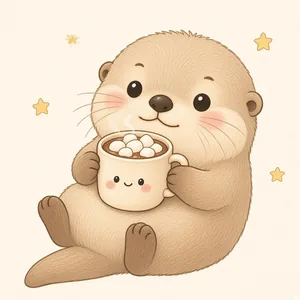
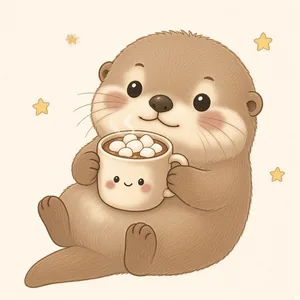
Art round 3: otter fur graded to milk-brown (portrait + scene), red panda scene colour-matched to new portrait (panda-only mask); remove Mother's Day (intl + TH) from festival calendar, May left empty pending World Bee Day decision

Changed region(s): [[0.09, 0.09, 0.87, 0.93], [0.33, 0.57, 0.39, 0.63], [0.51, 0.45, 0.54, 0.48]]

diff --git a/festivals.js b/festivals.js
@@ -32,9 +32,6 @@ function oktoberfest(y){
   return [addDays(sun, -15), sun.getDate() < 3 ? D(y, 10, 3) : sun];
 }
 
-/* Mother's Day mode is an OPEN DECISION for Nadda: 'intl' (2nd Sunday of May), 'th' (12 Aug), 'both' */
-const CONFIG = { mothersDay:'intl' };
-
 /* Each festival: k, th (Thai name), en, range(y) -> [start, end] (inclusive, local dates) or null.
    menu: limited-time MENU keys tied to this festival (existing art only). decor: [] (Phase 2 art). */
 const FESTIVALS = [
@@ -42,8 +39,7 @@ const FESTIVALS = [
   { k:'valentine', th:'วาเลนไทน์', en:"Valentine's Day", range:y => [D(y, 2, 10), D(y, 2, 14)] },
   { k:'easter', th:'อีสเตอร์', en:'Easter', range:y => { const d = easter(y); return [addDays(d, -7), addDays(d, 1)]; } },
   { k:'songkran', th:'สงกรานต์', en:'Songkran', range:y => [D(y, 4, 11), D(y, 4, 15)] },
-  { k:'mothersDayIntl', th:'วันแม่ (สากล)', en:"Mother's Day", when:() => CONFIG.mothersDay !== 'th', range:y => { const d = nthWeekday(y, 5, 0, 2); return [addDays(d, -5), d]; } },
-  { k:'mothersDayTH', th:'วันแม่ (ไทย)', en:"Mother's Day (TH)", when:() => CONFIG.mothersDay !== 'intl', range:y => [D(y, 8, 7), D(y, 8, 12)] },
+  /* May: intentionally empty (Mother's Day removed by Nadda, Oct 2026). Possible World Bee Day (20 May) is an open decision — see HANDOFF §9. */
   { k:'pride', th:'Pride', en:'Pride Month', range:y => [D(y, 6, 1), D(y, 6, 30)] },
   { k:'tanabata', th:'ทานาบาตะ', en:'Tanabata', range:y => [D(y, 7, 1), D(y, 7, 7)] },
   { k:'midAutumn', th:'ไหว้พระจันทร์', en:'Mid-Autumn', range:y => { const d = lunar('midAutumn', y); return d && [addDays(d, -5), addDays(d, 1)]; } },
@@ -95,5 +91,5 @@ function upcoming(date, days=60){
 const festivalMenu = date => [...new Set(active(date).flatMap(f => f.menu))];
 const hasLunarData = y => Object.values(LUNAR).every(t => t[y]);
 
-window.Festivals = { FESTIVALS, LUNAR, CONFIG, easter, oktoberfest, hemisphere, season, active, upcoming, festivalMenu, hasLunarData };
+window.Festivals = { FESTIVALS, LUNAR, easter, oktoberfest, hemisphere, season, active, upcoming, festivalMenu, hasLunarData };
 })();

diff --git a/HANDOFF.md b/HANDOFF.md
@@ -94,7 +94,8 @@ Pure functions with no DOM or storage. Easy to port to Swift, or run as-is in a 
 - `Festivals.upcoming(date, days)`, `Festivals.festivalMenu(date)`: limited-time MENU keys. `pumpkin` is tied to Halloween and `xmascocoa` to Christmas, which replaced the old month-number check.
 - `Festivals.season(date, hemi)` returns `{season, themeMonth, hemi, flags}`. Southern hemisphere uses the theme from 6 months away. Flags: `springPicnic` (April N / October S), `autumnToWinter` (November theme), `firstSnow` (north: from 20 Nov; south: 1–14 June, per the plan's "around June", unconfirmed → also sets `firstSnowSouthUnconfirmed`).
 - `Festivals.hemisphere({override, setting, timeZone, region})` picks in this order: URL override, then user setting (Settings → ฤดูกาลตามซีกโลก), then time zone (regex of southern zones), then region code, then N. **No location permission needed.**
-- Rule-based dates: Easter (Computus), Oktoberfest (Saturday 15 days before the 1st Sunday of Oct → that Sunday, or 3 Oct), Mother's Day (2nd Sunday of May; Thai 12 Aug behind `CONFIG.mothersDay`), plus fixed windows (Valentine 10–14 Feb, Songkran 11–15 Apr, Pride June, Tanabata 1–7 Jul, Halloween October, Christmas 1–26 Dec).
+- Rule-based dates: Easter (Computus), Oktoberfest (Saturday 15 days before the 1st Sunday of Oct → that Sunday, or 3 Oct), plus fixed windows (Valentine 10–14 Feb, Songkran 11–15 Apr, Pride June, Tanabata 1–7 Jul, Halloween October, Christmas 1–26 Dec).
+- **No Mother's Day** (neither the May international date nor Thai 12 Aug): Nadda removed it from the calendar. May currently has no festival on purpose.
 - Lunar table `LUNAR` (verified Oct 2026, **2026–2030 only**): Lunar New Year, Mid-Autumn, Diwali (Lakshmi Puja, New Delhi), Loy Krathong. For years missing from the table these festivals simply don't fire. `Festivals.hasLunarData(year)` lets you warn. **Add 2031+ before 2031.**
 - Display windows (e.g. LNY −2…+7 days, Loy Krathong −3…+1) are in each `range()`. Tweak them freely.
 - `decor:[]` is empty: festival art is Phase 2. Hook point: when the art exists, map `k → [assets]` and render the overlays in `counterScene()`.
@@ -141,7 +142,7 @@ Fonts: Itim, Mali, Sriracha come from Google Fonts on web. **Bundle them (SIL OF
 ## 9. Open decisions (for Nadda)
 1. Hiding the 7 deferred ducks entirely (current build) vs showing them as "coming soon".
 2. Southern-hemisphere **first-snow** timing (plan says around June; engine uses 1–14 June, flagged `firstSnowSouthUnconfirmed`).
-3. Mother's Day: international (2nd Sunday of May, current default), Thai (12 Aug), or both (`Festivals.CONFIG.mothersDay = 'intl'|'th'|'both'`).
+3. May festival slot: currently empty. Waiting on Nadda: possibly **World Bee Day (20 May)** using the planned bee art. Not built yet.
 4. Halloween guest: little ghost vs mini Krasue vs both (art is Phase 2).
 5. Launch languages: Thai only vs Thai + English (all UI strings are Thai inline today; an English pass needs a string table).
 6. Sign-in provider (none today; local-only) and whether any sync is wanted later.
